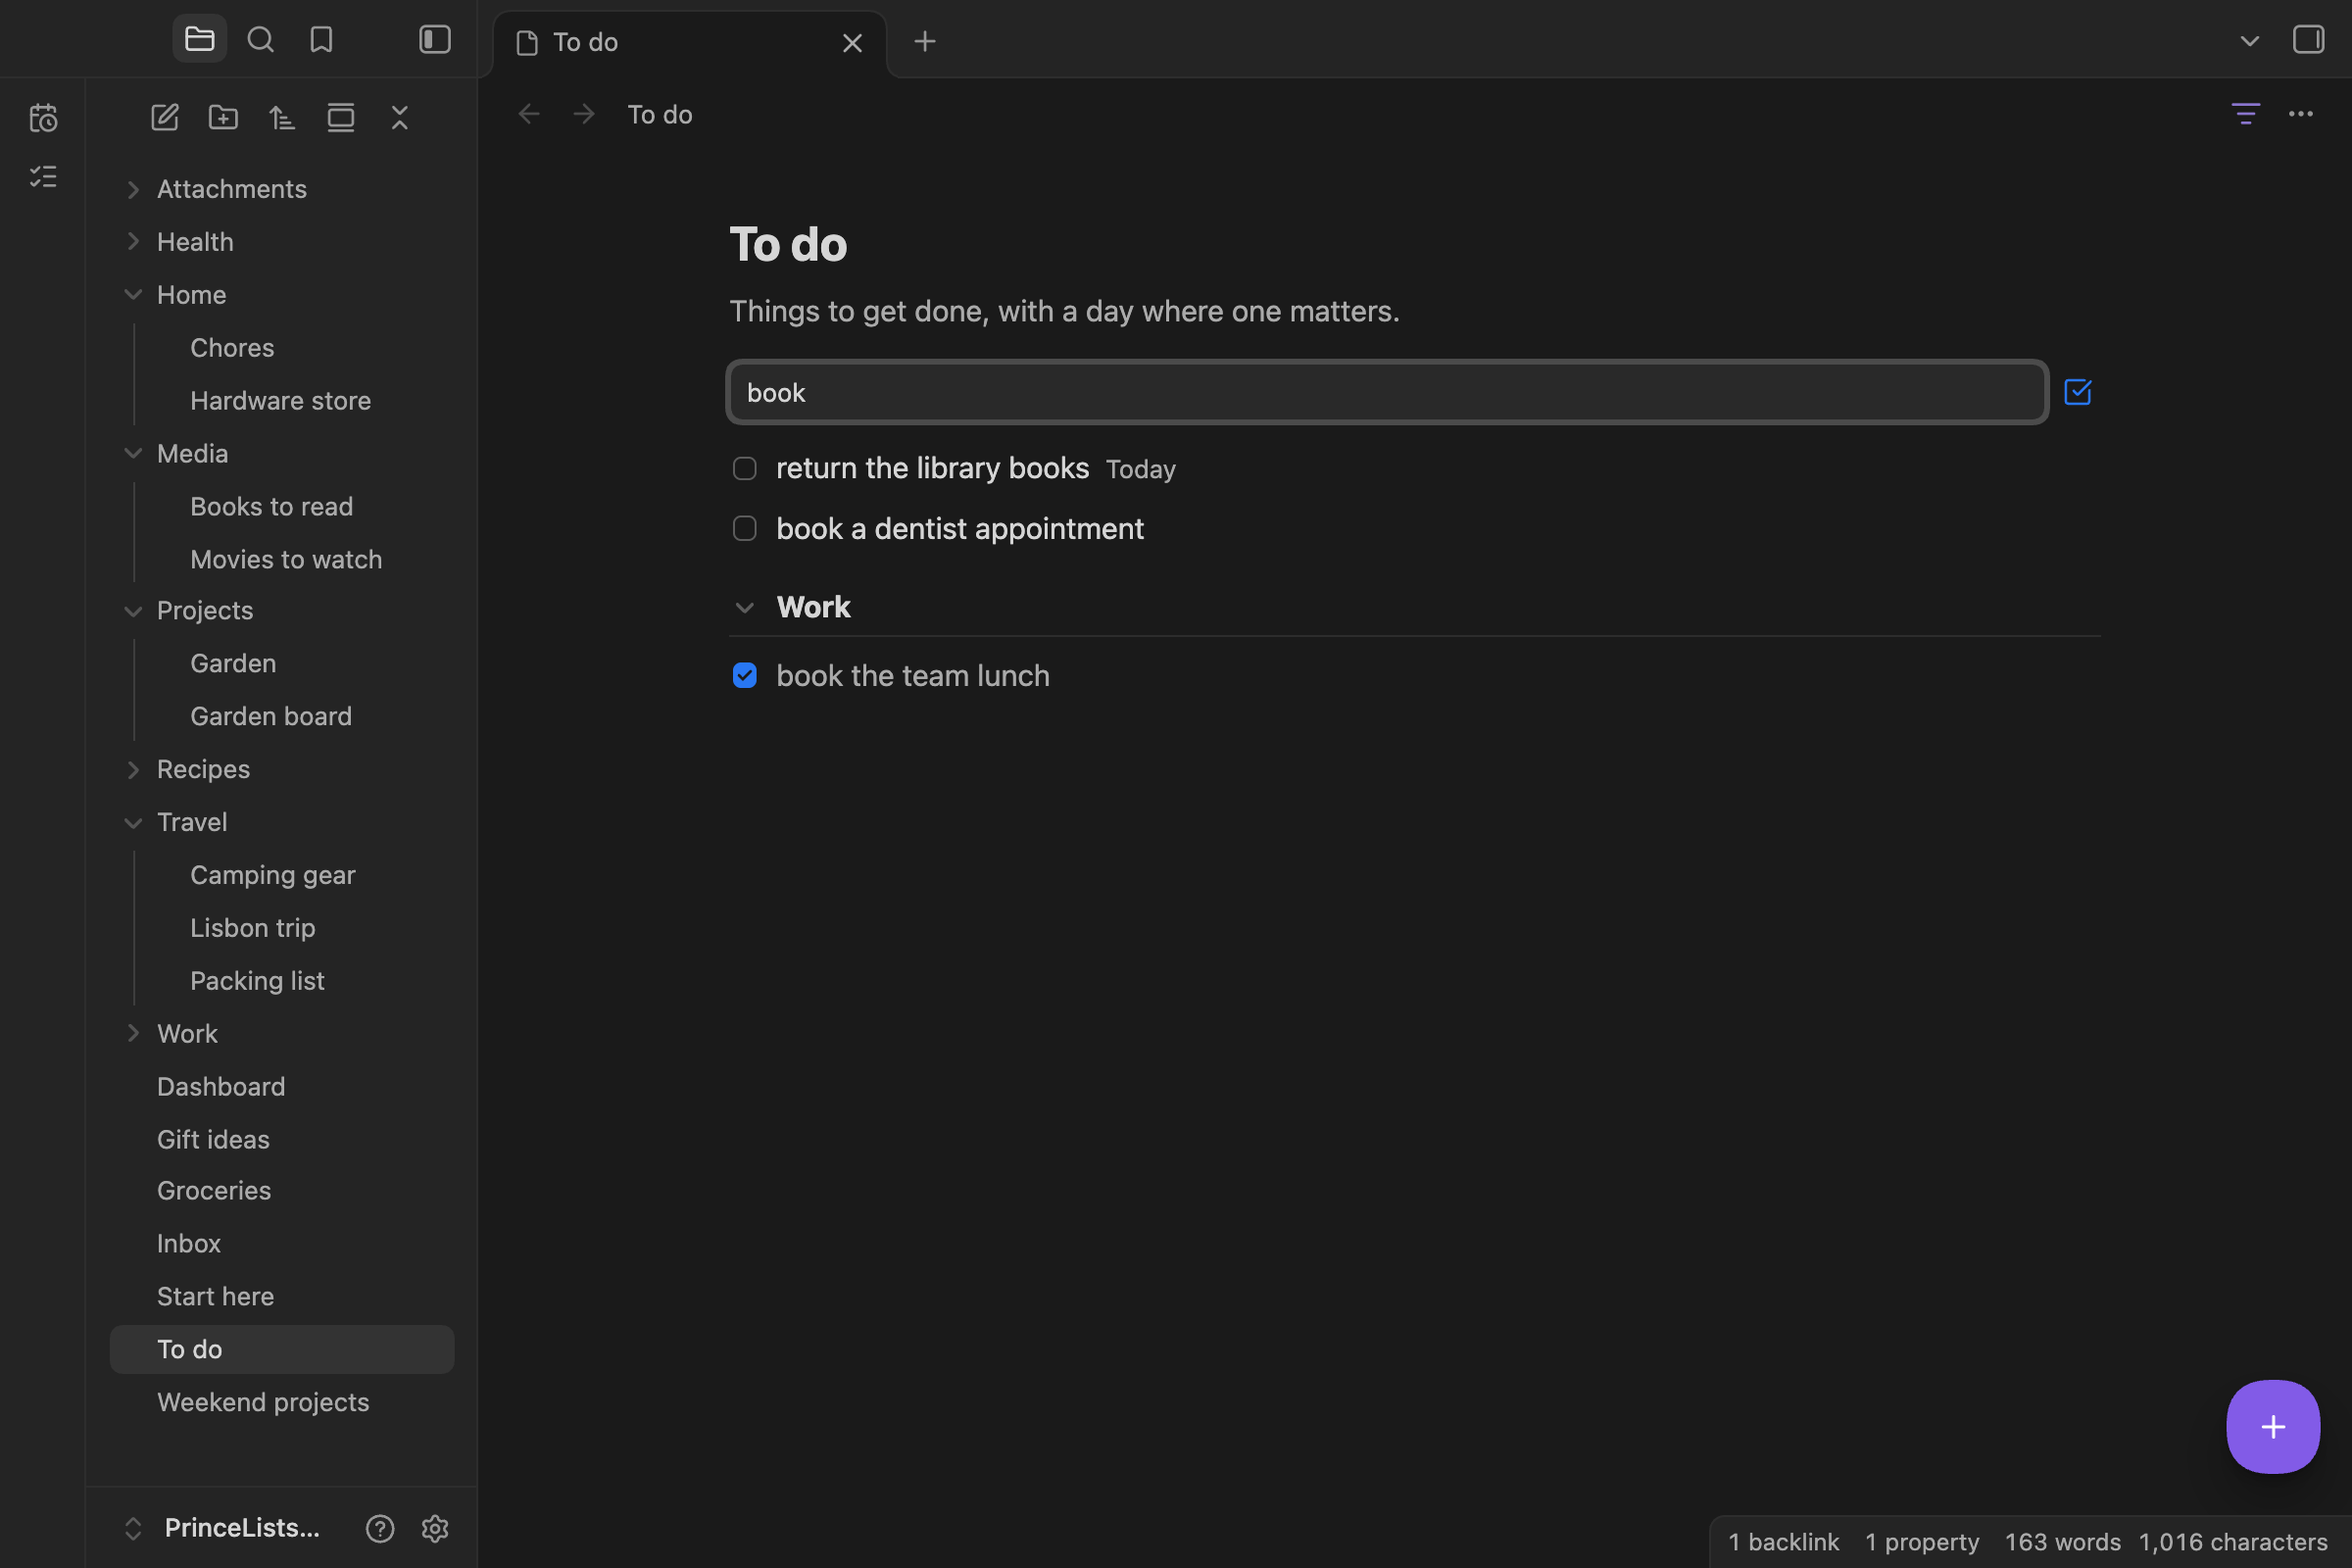
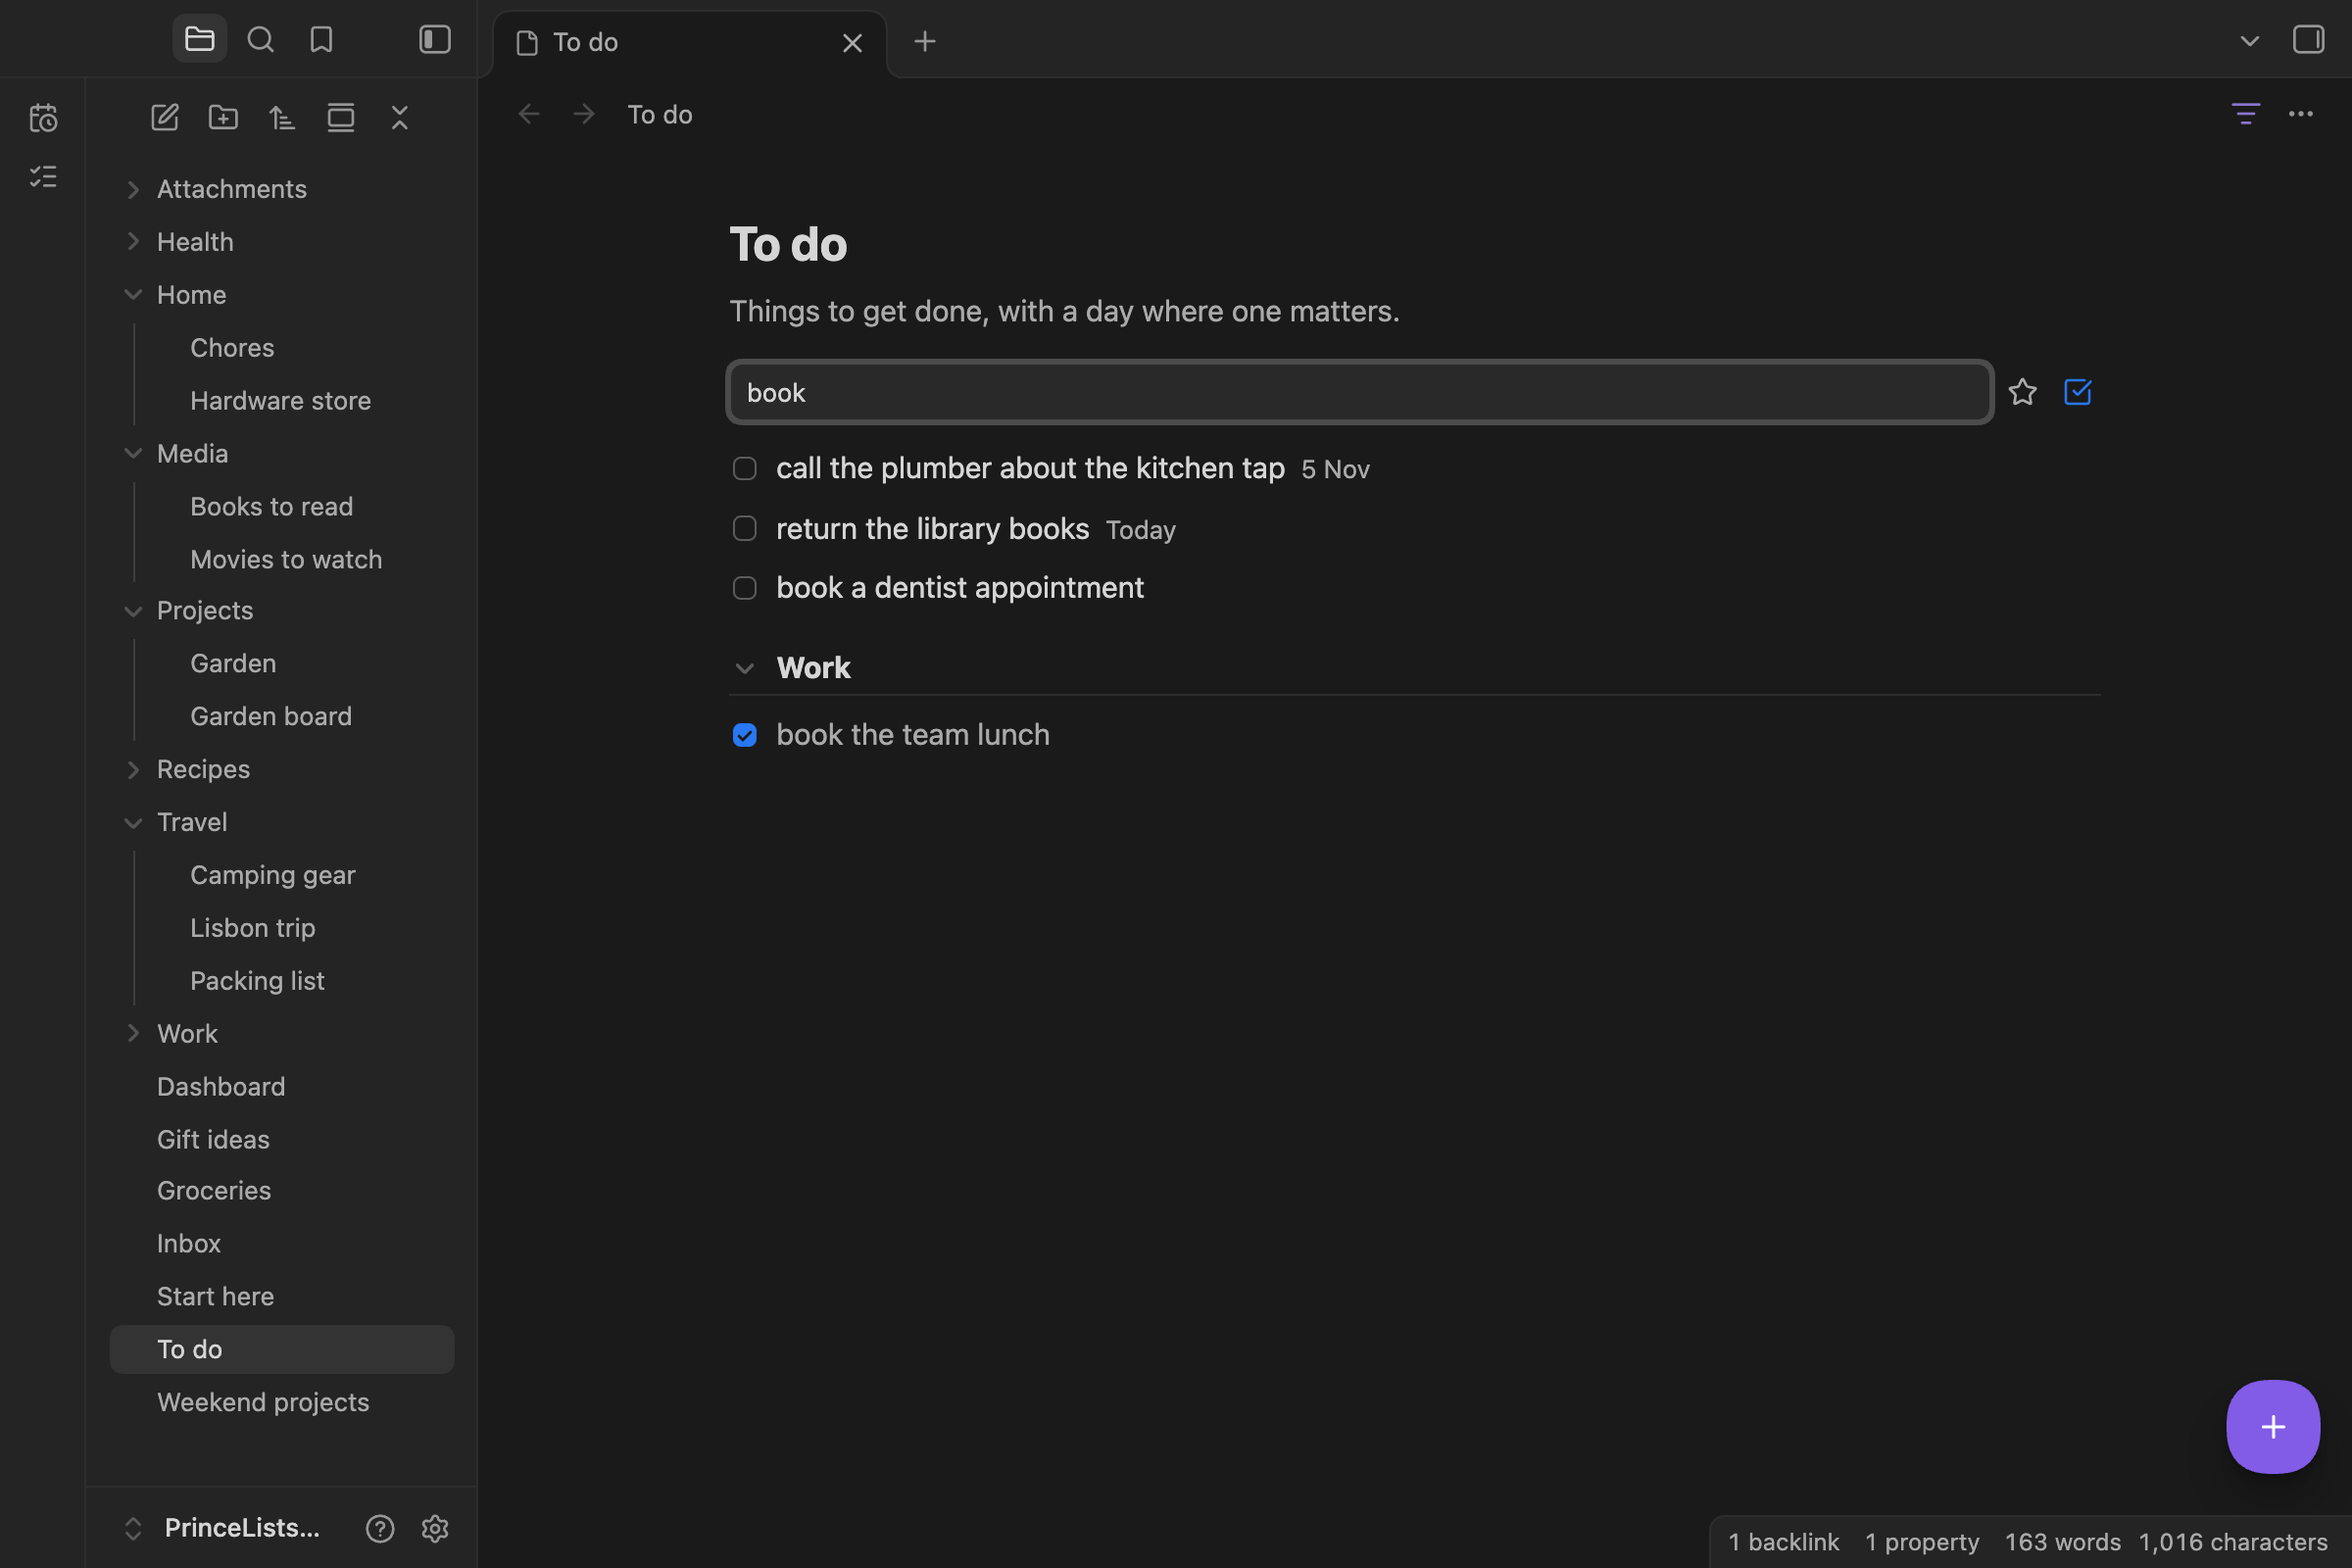
Retake the filter pictures with the starred toggle and fuzzy find
Both now show the star beside the archived toggle, and "book" also finds an item whose note has its letters in order, so the GIF's alt text says four items.

Changed region(s): [[0.3125, 0.2812, 0.5938, 0.5], [0.8438, 0.2188, 0.875, 0.2812], [0.375, 0.4688, 0.4062, 0.5]]

diff --git a/README.md b/README.md
@@ -14,7 +14,7 @@ Make a list from the ribbon, a folder, or a note you already have.
 
 Ticked items hide after a day, or the time you choose in the settings. The filter icon finds items by their text, and can bring the hidden ones back, with blue checkboxes.
 
-![In a todo list, an item is ticked and grays out, then the filter icon in the pane's header opens a field, its toggle brings back three items ticked days ago with blue checkboxes, and typing book leaves the three items that mention it, until the filter icon closes the field again](https://raw.githubusercontent.com/princelundgren/PrinceListsObsidianPlugin/main/docs/images/filter.gif)
+![In a todo list, an item is ticked and grays out, then the filter icon in the pane's header opens a field, its toggle brings back three items ticked days ago with blue checkboxes, and typing book leaves four items, three that mention it and one whose note has its letters in order, until the filter icon closes the field again](https://raw.githubusercontent.com/princelundgren/PrinceListsObsidianPlugin/main/docs/images/filter.gif)
 
 Each item has a title, a date, a star and powerful notes, with a toolbar for formatting.
 
